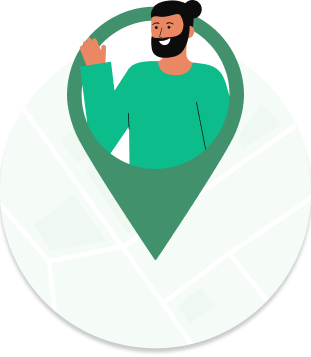
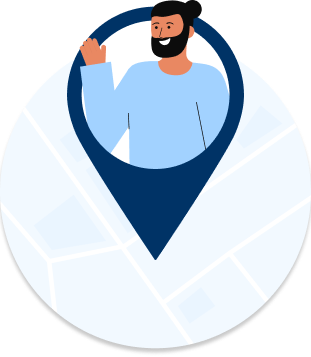
fix color

Changed region(s): [[0.2026, 0.0308, 0.8103, 0.7395], [0.2894, 0.0, 0.492, 0.1232]]

diff --git a/src/components/navbar/Full.vue b/src/components/navbar/Full.vue
@@ -69,42 +69,42 @@
     <RouterLink
       class="hover:bg-sigap-primary hover:text-white px-4 rounded-full"
       :to="{ name: 'categorylist' }"
-      >Graphic & Design</RouterLink
+      ><button>Graphic & Design</button></RouterLink
     >
     <RouterLink
       class="hover:bg-sigap-primary hover:text-white px-4 rounded-full"
       :to="{ name: 'categorylist' }"
-      >Videography</RouterLink
+      ><button>Videography</button></RouterLink
     >
     <RouterLink
       class="hover:bg-sigap-primary hover:text-white px-4 rounded-full"
       :to="{ name: 'categorylist' }"
-      >Animation</RouterLink
+      ><button>Animation</button></RouterLink
     >
     <RouterLink
       class="hover:bg-sigap-primary hover:text-white px-4 rounded-full"
       :to="{ name: 'categorylist' }"
-      >Programming</RouterLink
+      ><button>Programming</button></RouterLink
     >
     <RouterLink
       class="hover:bg-sigap-primary hover:text-white px-4 rounded-full"
       :to="{ name: 'categorylist' }"
-      >Digital Marketing</RouterLink
+      ><button>Digital Marketing</button></RouterLink
     >
     <RouterLink
       class="hover:bg-sigap-primary hover:text-white px-4 rounded-full"
       :to="{ name: 'categorylist' }"
-      >Writing & Translation</RouterLink
+      ><button>Writing & Translation</button></RouterLink
     >
     <RouterLink
       class="hover:bg-sigap-primary hover:text-white px-4 rounded-full"
       :to="{ name: 'categorylist' }"
-      >Music & Audio</RouterLink
+      ><button>Music & Audio</button></RouterLink
     >
     <RouterLink
       class="hover:bg-sigap-primary hover:text-white px-4 rounded-full"
       :to="{ name: 'categorylist' }"
-      >Photography</RouterLink
+      ><button>Photography</button></RouterLink
     >
   </div>
 </template>

diff --git a/src/components/LogoComponent.vue b/src/components/LogoComponent.vue
@@ -1,12 +1,13 @@
 <script setup>
   import logo from "../assets/agleeslogo.png";
   import logo1 from "../assets/agleesLogo1.png";
+  import logo2 from "../assets/agleesLogotypepng.png";
 </script>
 <template>
   <div class="logo flex flex-row shrink-0 gap-2 cursor-pointer">
-    <img :src="logo1" alt="logo" width="38" />
-    <div class="text-xl font-normal font-lexend">
+    <img :src="logo2" alt="logo" width="150" />
+    <!-- <div class="text-xl font-normal font-lexend">
       <span class="text-sigap-primary text-3xl">aglees.</span>
-    </div>
+    </div> -->
   </div>
 </template>

diff --git a/src/components/LandingFeatureButton.vue b/src/components/LandingFeatureButton.vue
@@ -14,7 +14,7 @@
   <div
     @pointerenter="onHover"
     @pointerleave="onHover"
-    class="card w-96 h-96 flex flex-col items-center justify-between p-8 shadow-xl hover:bg-sigap-primary hover:text-white transition-all duration-300 cursor-pointer"
+    class="card w-96 h-96 flex flex-col items-center justify-between p-8 shadow-xl hover:bg-sigap-secondary hover:text-white transition-all duration-300 cursor-auto"
   >
     <img
       :class="

diff --git a/src/components/EmailSubscription.vue b/src/components/EmailSubscription.vue
@@ -1,6 +1,6 @@
 <template>
   <div
-    class="w-full flex flex-col items-center justify-center py-20 bg-gradient-to-br from-sigap-primary to-[#FFFFFF00] gap-12"
+    class="w-full flex flex-col items-center justify-center py-20 bg-gradient-to-br from-sigap-secondary to-[#FFFFFF00] gap-12"
   >
     <div>
       <div class="font-poppins font-medium text-5xl text-center">

diff --git a/src/views/IndexView.vue b/src/views/IndexView.vue
@@ -34,7 +34,7 @@
     alt="Landing Background"
   /> -->
   <div
-    class="w-screen h-screen absolute top-0 left-0 bg-gradient-to-tl from-sigap-primary to-gray-50"
+    class="w-screen h-screen absolute top-0 left-0 bg-gradient-to-tl from-sigap-secondary to-gray-50"
   >
     <div
       class="w-full h-full bg-gradient-to-t from-white via-transparent to-transparent"

diff --git a/tailwind.config.js b/tailwind.config.js
@@ -3,7 +3,8 @@ module.exports = {
   theme: {
     extend: {
       colors: {
-        "sigap-primary": "#a2d2ff",
+        "sigap-secondary": "#a2d2ff",
+        "sigap-primary": "#003366",
         "sigap-gray": "#9D9D9D",
         "sigap-light": "#f2fafa",
       },
